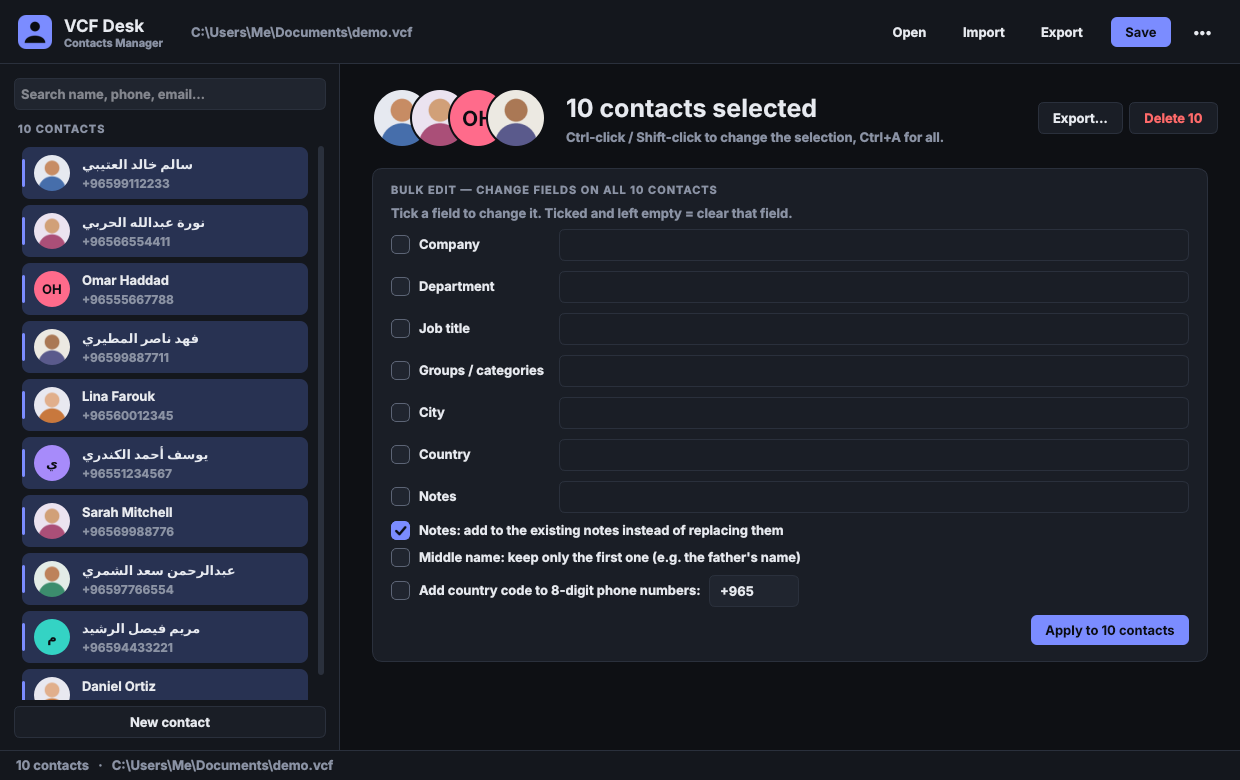
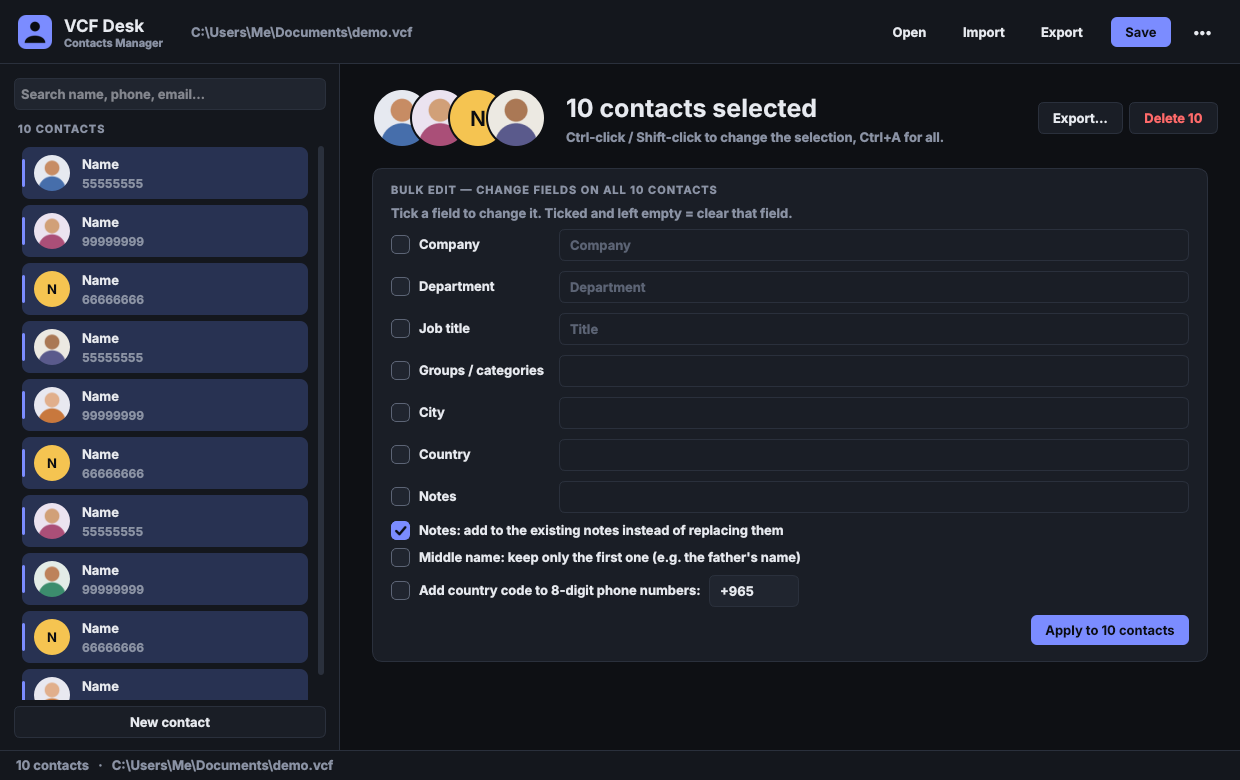
Use placeholder names and numbers in screenshots, demo file and tests
Every contact is now just "Name" with numbers like 55555555, 99999999 and
66666666; company, department, title and address use their field names.

Claude-Session: https://claude.ai/code/session_019F12NSUG6gD1WipEZA1NuT

diff --git a/tests/test_core.py b/tests/test_core.py
@@ -6,27 +6,27 @@ from conftest import DATA
 
 ANDROID_21 = (
     "BEGIN:VCARD\r\nVERSION:2.1\r\n"
-    "N;CHARSET=UTF-8;ENCODING=QUOTED-PRINTABLE:=D8=A7=D9=84=D8=B9=D9=84=D9=8A;=D9=85=D8=AD=D9=85=D8=AF;;;\r\n"
-    "FN;CHARSET=UTF-8;ENCODING=QUOTED-PRINTABLE:=D9=85=D8=AD=D9=85=D8=AF =D8=A7=D9=84=D8=B9=D9=84=D9=8A\r\n"
-    "TEL;CELL;PREF:+96599887766\r\n"
+    "N;CHARSET=UTF-8;ENCODING=QUOTED-PRINTABLE:=D8=A7=D8=B3=D9=852;=D8=A7=D8=B3=D9=851;;;\r\n"
+    "FN;CHARSET=UTF-8;ENCODING=QUOTED-PRINTABLE:=D8=A7=D8=B3=D9=851 =D8=A7=D8=B3=D9=852\r\n"
+    "TEL;CELL;PREF:+96599999999\r\n"
     "NOTE;ENCODING=QUOTED-PRINTABLE:line one=0D=0Aline two with a soft =\r\nbreak\r\n"
     "X-ANDROID-CUSTOM:vnd.android.cursor.item/nickname;Mo;1;;;;;;;;;;;;;\r\n"
     "END:VCARD\r\n"
 )
 
 IPHONE_30 = (
-    "BEGIN:VCARD\r\nVERSION:3.0\r\nN:Appleseed;John;;;\r\nFN:John Appleseed\r\n"
-    "ORG:Example Inc.;Engineering;\r\nitem1.TEL;type=pref:+1 408 555 0100\r\n"
-    "item1.X-ABLabel:_$!<Mobile>!$_\r\nEMAIL;type=INTERNET;type=HOME:john@example.com\r\n"
-    "ADR;type=HOME:;;1 Main St\\, Bldg 2;Springfield;CA;95014;USA\r\n"
+    "BEGIN:VCARD\r\nVERSION:3.0\r\nN:Name;Name;;;\r\nFN:Name Name\r\n"
+    "ORG:Company;Department;\r\nitem1.TEL;type=pref:55555555\r\n"
+    "item1.X-ABLabel:_$!<Mobile>!$_\r\nEMAIL;type=INTERNET;type=HOME:name@example.com\r\n"
+    "ADR;type=HOME:;;Street\\, 2;City;Region;00000;Country\r\n"
     "NOTE:semicolon\; comma\\, and\\nnewline\r\nEND:VCARD\r\n"
 )
 
 
 def test_android_quoted_printable_arabic():
     c = v.parse_vcf(ANDROID_21)[0]
-    assert c.display_name() == "محمد العلي"
-    assert c.name_parts()[:2] == ["العلي", "محمد"]
+    assert c.display_name() == "اسم1 اسم2"
+    assert c.name_parts()[:2] == ["اسم2", "اسم1"]
     assert c.text("NOTE").replace("\r", "") == "line one\nline two with a soft break"
 
 
@@ -34,17 +34,17 @@ def test_iphone_labels_and_escaping():
     c = v.parse_vcf(IPHONE_30)[0]
     f = v.contact_to_form(c)
     assert f["phones"][0][0] == "Mobile"           # from X-ABLabel
-    assert f["addresses"][0][1] == "1 Main St, Bldg 2"
+    assert f["addresses"][0][1] == "Street, 2"
     assert c.text("NOTE") == "semicolon; comma, and\nnewline"
 
 
 def test_unknown_fields_survive_editing():
     c = v.parse_vcf(ANDROID_21)[0]
     f = v.contact_to_form(c)
-    f["first"] = "أحمد"
+    f["first"] = "اسم3"
     v.apply_form(c, f)
     out = v.serialize_contact(c)
-    assert "X-ANDROID-CUSTOM:" in out and "أحمد" in out
+    assert "X-ANDROID-CUSTOM:" in out and "اسم3" in out
 
 
 def test_round_trip_every_version(tmp_path):
@@ -62,7 +62,7 @@ def test_google_csv_has_bom_for_excel(tmp_path):
     v.write_google_csv(str(p), v.parse_vcf(ANDROID_21))
     assert p.read_bytes()[:3] == b"\xef\xbb\xbf"
     rows = list(csv.reader(open(p, encoding="utf-8-sig")))
-    assert rows[1][0] == "محمد"
+    assert rows[1][0] == "اسم1"
 
 
 def test_google_and_outlook_csv_reimport(tmp_path):
@@ -95,8 +95,8 @@ def test_csv_cells_with_line_breaks(tmp_path):
     with open(p, "w", newline="", encoding="utf-8-sig") as fh:
         w = csv.writer(fh)
         w.writerow(["الاسم", "ملاحظات", "الهاتف"])
-        w.writerow(["خالد العوض", "سطر1\nسطر2", "99887766"])
-        w.writerow(["سارة", "x", "55443322"])
+        w.writerow(["Name", "سطر1\nسطر2", "99999999"])
+        w.writerow(["Name", "x", "66666666"])
     rows = v.csv_rows(str(p))
     assert len(rows) == 3 and rows[1][1] == "سطر1\nسطر2"
 
@@ -110,17 +110,17 @@ def test_column_guessing():
 
 
 def test_middle_name_options():
-    assert v.split_full_name("محمد مختار حسن أحمد الشطي") == ("محمد", "مختار حسن أحمد", "الشطي")
-    assert v.split_full_name("محمد مختار حسن أحمد الشطي", one_middle=True) == ("محمد", "مختار", "الشطي")
-    assert v.split_full_name("عبد الله محمد عبد الرحمن العلي", True) == ("عبد الله", "محمد", "العلي")
-    rows = [["محمد مختار حسن أحمد الشطي", "99887766"]]
+    assert v.split_full_name("Name1 Name2 Name3 Name4 Name5") == ("Name1", "Name2 Name3 Name4", "Name5")
+    assert v.split_full_name("Name1 Name2 Name3 Name4 Name5", one_middle=True) == ("Name1", "Name2", "Name5")
+    assert v.split_full_name("عبد Name1 Name2 عبد Name3 Name4", True) == ("عبد Name1", "Name2", "Name4")
+    rows = [["Name1 Name2 Name3 Name4 Name5", "99999999"]]
     (c,), _ = v.rows_to_contacts(["الاسم", "الهاتف"], rows, ["Full name", "Mobile phone"], "+965", one_middle=True)
-    assert c.display_name() == "محمد مختار الشطي" and c.text("TEL") == "+96599887766"
+    assert c.display_name() == "Name1 Name2 Name5" and c.text("TEL") == "+96599999999"
     v.bulk_apply([v.parse_vcf(ANDROID_21)[0]], {}, one_middle=True)
 
 
 def test_phone_and_date_normalising():
-    assert v.normalize_phone("99887766", "+965") == "+96599887766"
-    assert v.normalize_phone("0096599887766", "+965") == "+96599887766"
+    assert v.normalize_phone("55555555", "+965") == "+96555555555"
+    assert v.normalize_phone("0096566666666", "+965") == "+96566666666"
     assert v.normalize_date("15/03/1980") == "1980-03-15"
     assert v.normalize_date("32875") == "1990-01-02"

diff --git a/README.md b/README.md
@@ -33,7 +33,7 @@
   <a href="#build-from-source">Build</a>
 </p>
 
-![VCF Desk with Arabic and English contacts](shots/main.png)
+![VCF Desk](shots/main.png)
 
 <p align="center"><sub>If VCF Desk saves you time, a ⭐ star on this page helps other people find it.</sub></p>
 
